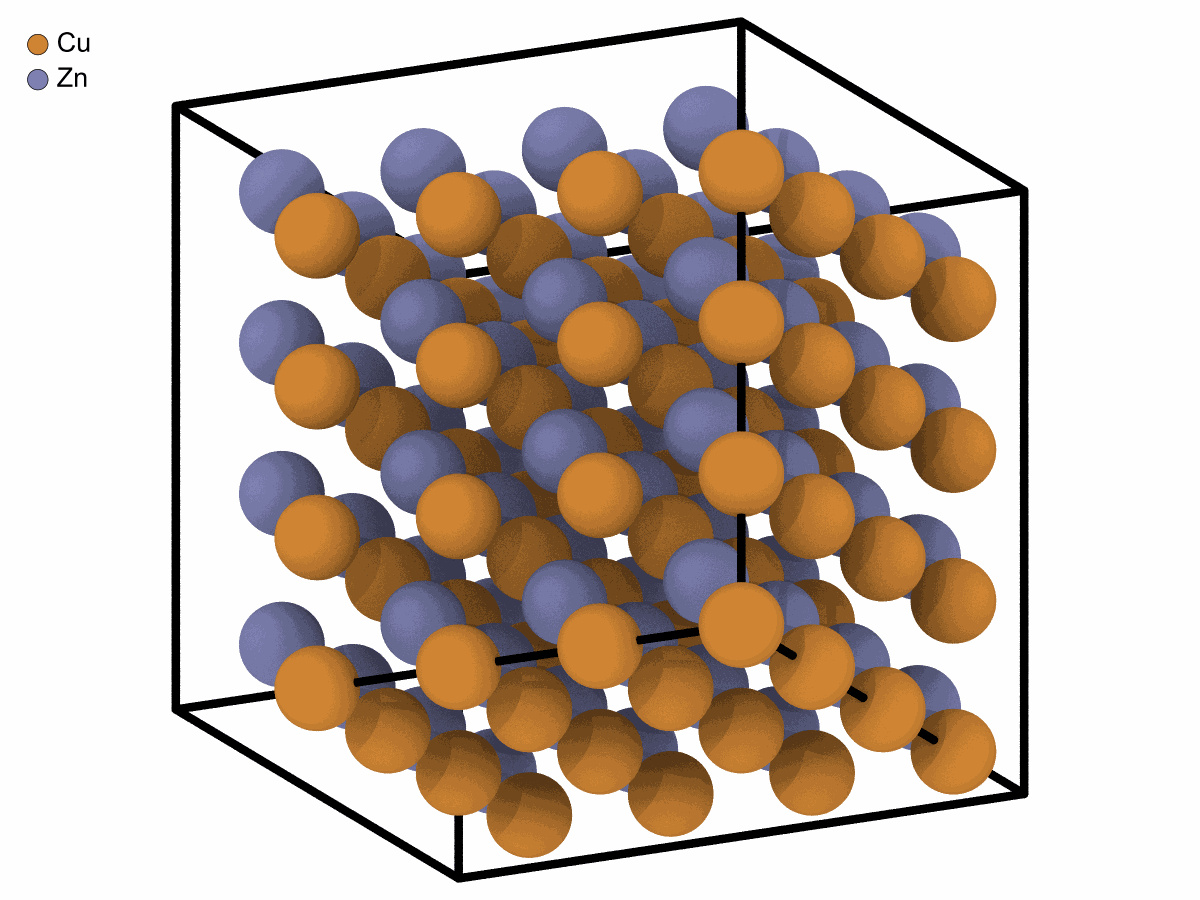
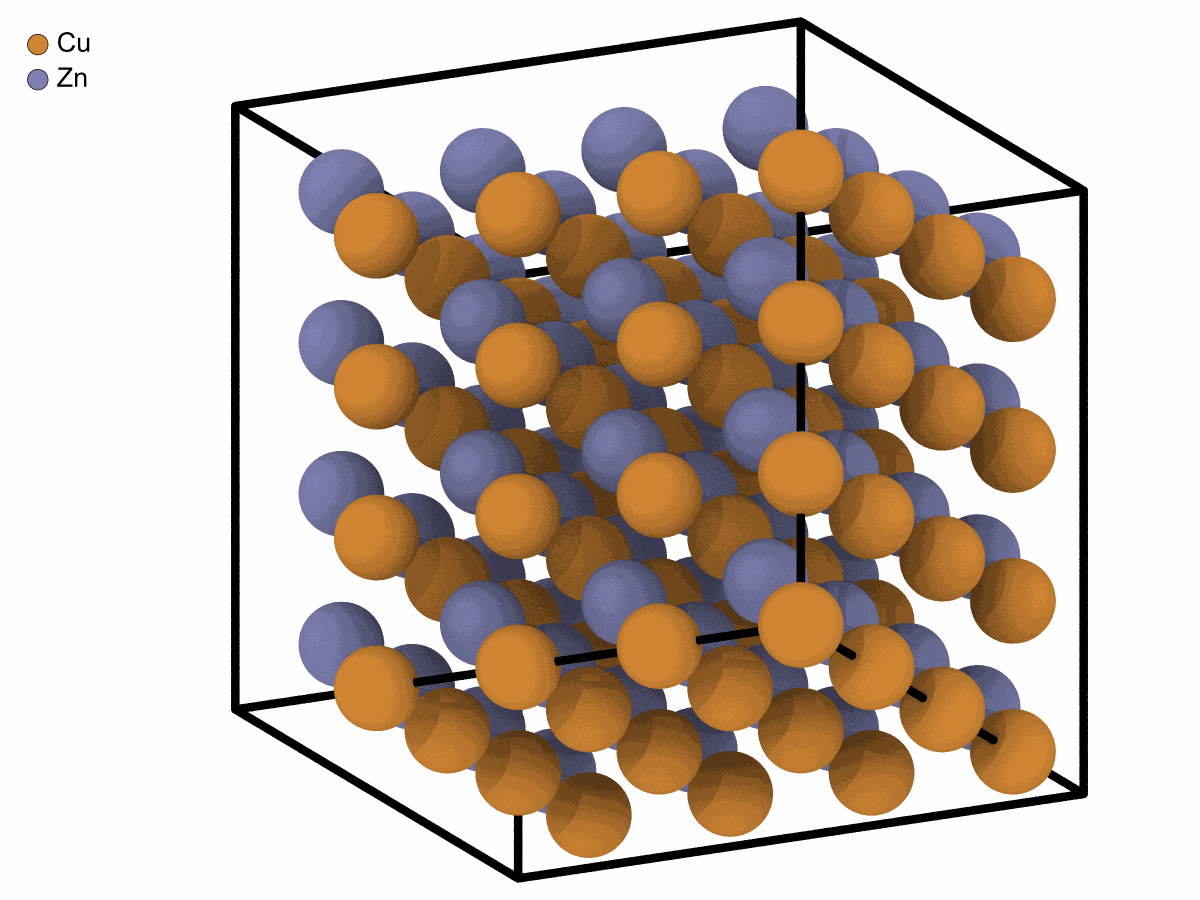
Warren-Cowley parameters: the crystal and the plot side by side at the same height

diff --git a/docs/user-guide/analysis/warren-cowley.md b/docs/user-guide/analysis/warren-cowley.md
@@ -53,8 +53,8 @@ with plot.style():
     plot.save(fig, "images/warren-cowley", formats=("png",))
 ```
 
-![CsCl-ordered CuZn](images/warren-cowley-b2.png){ width="38%" }
-![Warren–Cowley parameters by shell](images/warren-cowley.png){ width="60%" }
+![CsCl-ordered CuZn](images/warren-cowley-b2.png){ width="49%" }
+![Warren–Cowley parameters by shell](images/warren-cowley.png){ width="49%" }
 
 *Left: CuZn in the CsCl order, Cu orange and Zn blue. Right: the order of Zn
 around Cu shell by shell, −1 for a shell of Zn only and 1 for one of Cu
